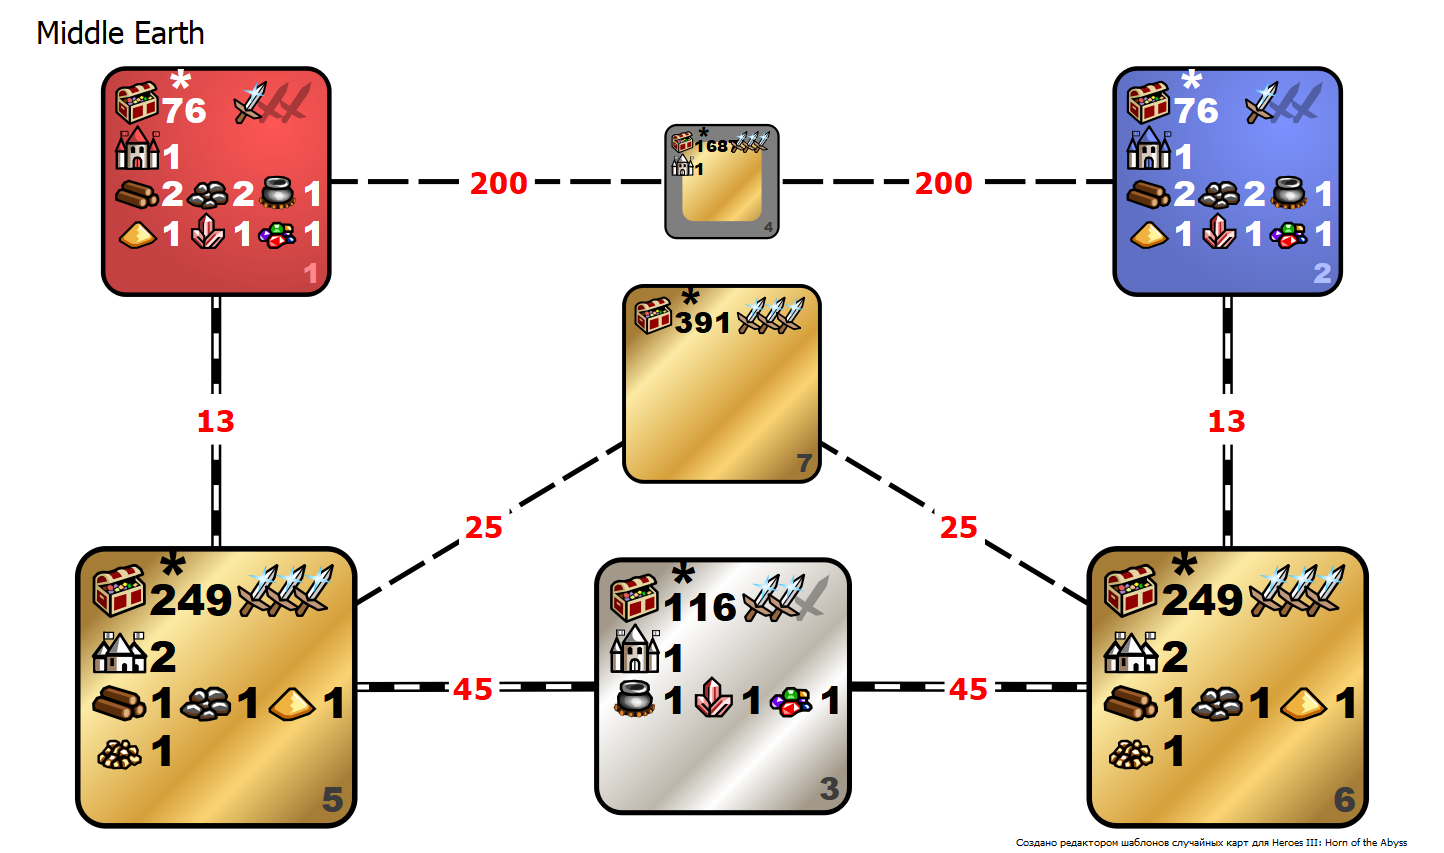
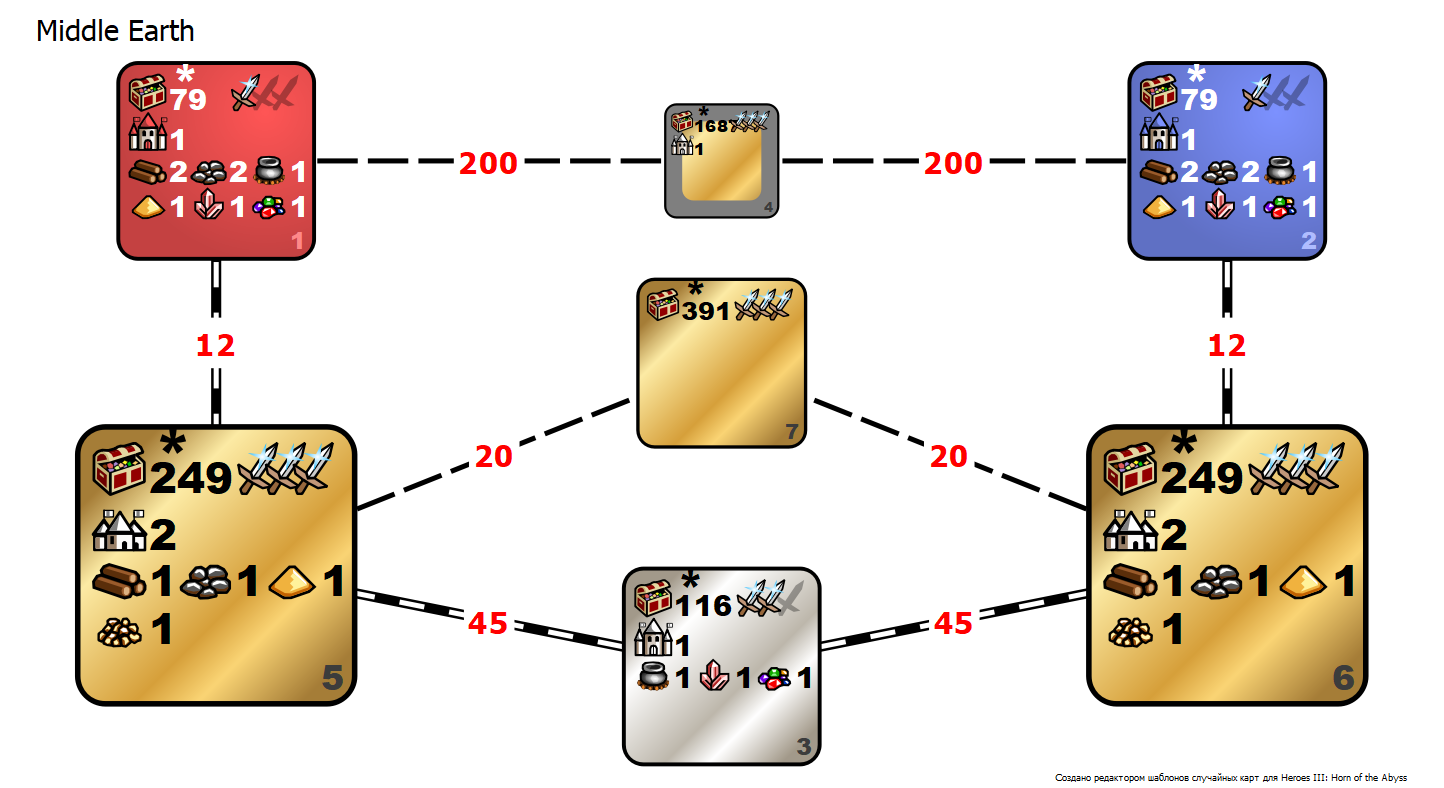
Home zones big rework

Changed region(s): [[0.0312, 0.335, 0.9661, 1.0], [0.0312, 0.0305, 0.5609, 0.3655], [0.4675, 0.0609, 0.9349, 0.3655]]

diff --git a/README.md b/README.md
@@ -85,7 +85,6 @@ Banned:
 ![Armageddon](gfx/spells/armageddon.png) 
 ![Blind](gfx/spells/blind.png) 
 ![Cure](gfx/spells/cure.png) 
-![Destroying Ray](gfx/spells/ray.png) 
 ![Dimensions Door](gfx/spells/door.png) 
 ![Fire Shield](gfx/spells/fireshield.png) 
 ![Fly](gfx/spells/fly.png) 
